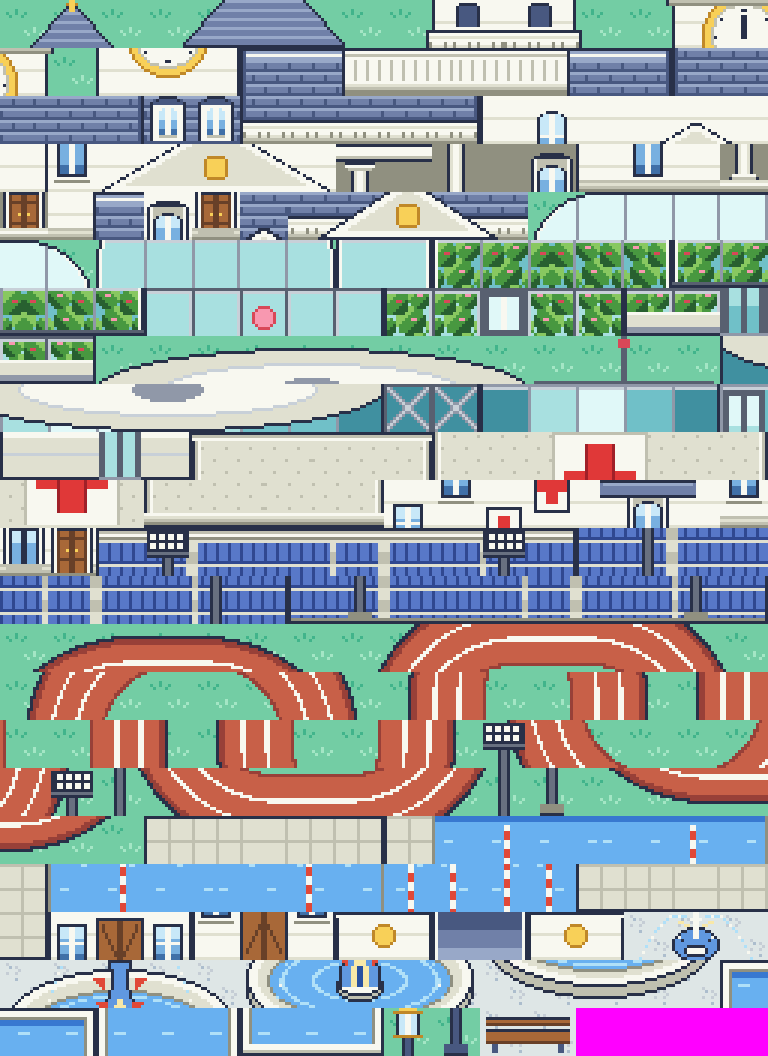
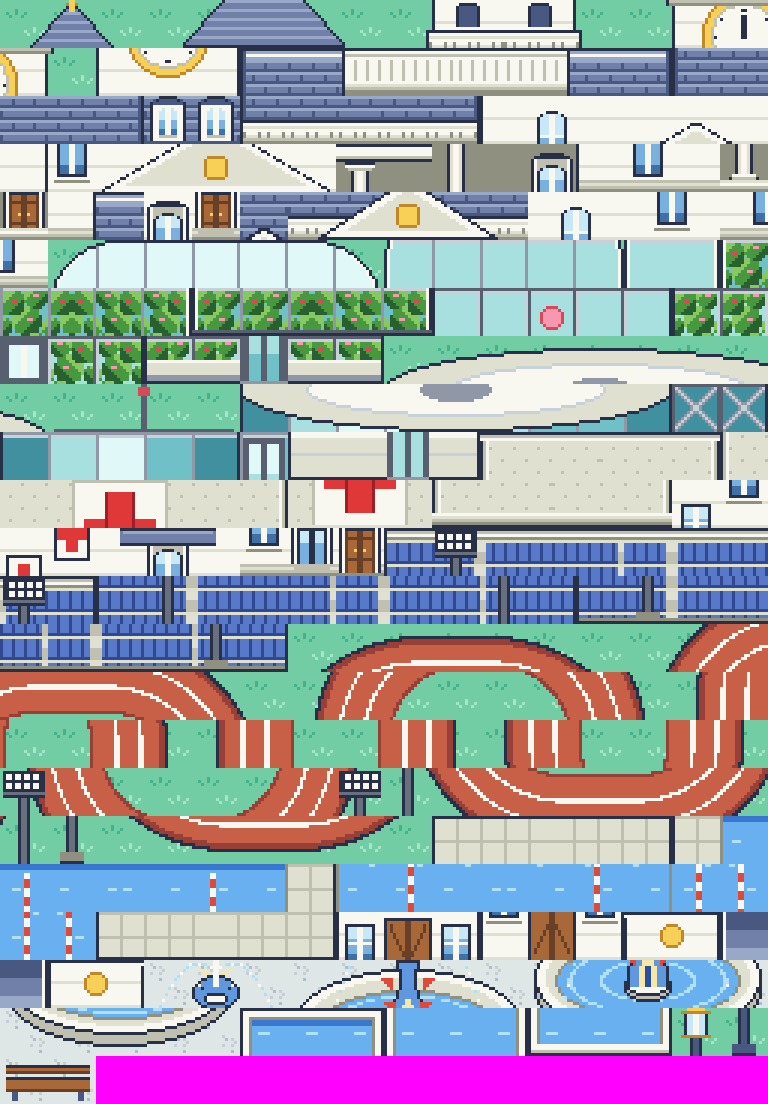
University: Literature & Library's windows three columns either side of each door, one in the dead center

diff --git a/tools/hack/draw_university_tiles.py b/tools/hack/draw_university_tiles.py
@@ -319,9 +319,12 @@ def has_window(c, w_tiles, spacing):
 
 
 def facade(P, x0, y0, w_tiles, storeys, kind='arch', skip=(), spacing=2, columns=None):
-    """Storeys of windows (2 rows each) every `spacing` columns within columns 1..w-2 (or exactly `columns`), except
-    (col, storey) in skip (storey 0 = the top one)."""
+    """Storeys of windows (2 rows each) every `spacing` columns within columns 1..w-2 (or exactly `columns`, which may
+    include half columns such as 10.5 for the middle of an even-width building), except (col, storey) in skip
+    (storey 0 = the top one)."""
     for s in range(storeys):
+        for c in [c for c in (columns or ()) if c != int(c)]:  # Half-column windows, between two tiles
+            (window if kind == 'arch' else sqwindow)(P, x0 + int(c * T), y0 + s * 2 * T)
         for c in range(1, w_tiles - 1):
             if (c not in columns) if columns is not None else not has_window(c, w_tiles, spacing):
                 continue
@@ -440,8 +443,9 @@ def pavilion():
 
 def humanities():
     """Literature & Library, 22x9: one building, two doors (columns 5 and 16)."""
-    # Windows two columns either side of each door (3, 7 and 14, 18), and a pair between them (9, 12)
-    P = academic(22, 5, 2, doors=(5, 16), dormers=(3, 8, 13, 18), columns=(3, 7, 9, 12, 14, 18))
+    # Windows three columns either side of each door (2, 8 and 13, 19: just outside the end dormers, and under the
+    # middle ones), and one in the dead center (between columns 10 and 11)
+    P = academic(22, 5, 2, doors=(5, 16), dormers=(3, 8, 13, 18), columns=(2, 8, 10.5, 13, 19))
     P.mirror()
     return P
 
